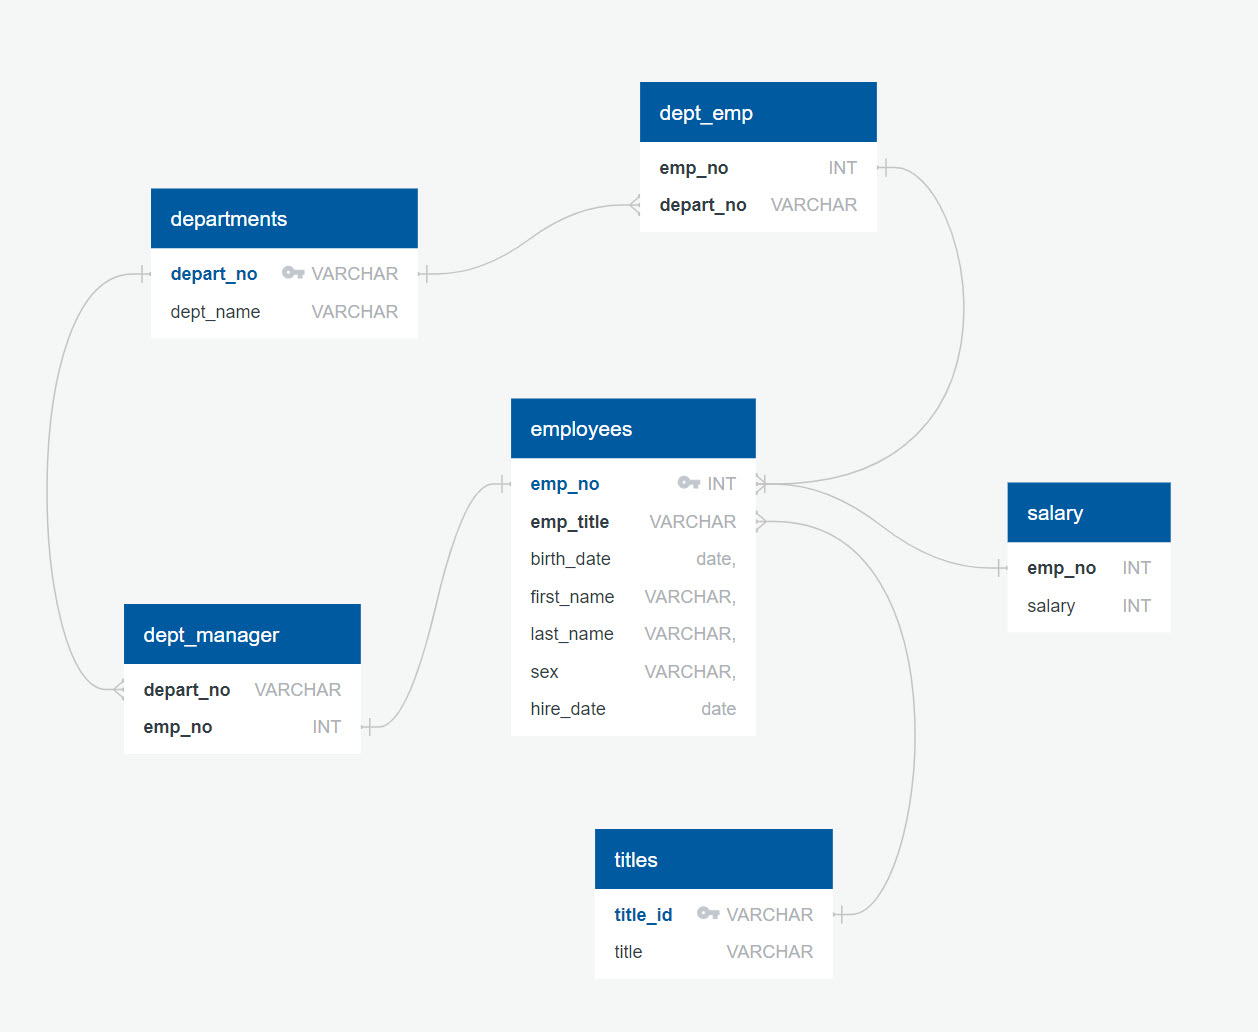
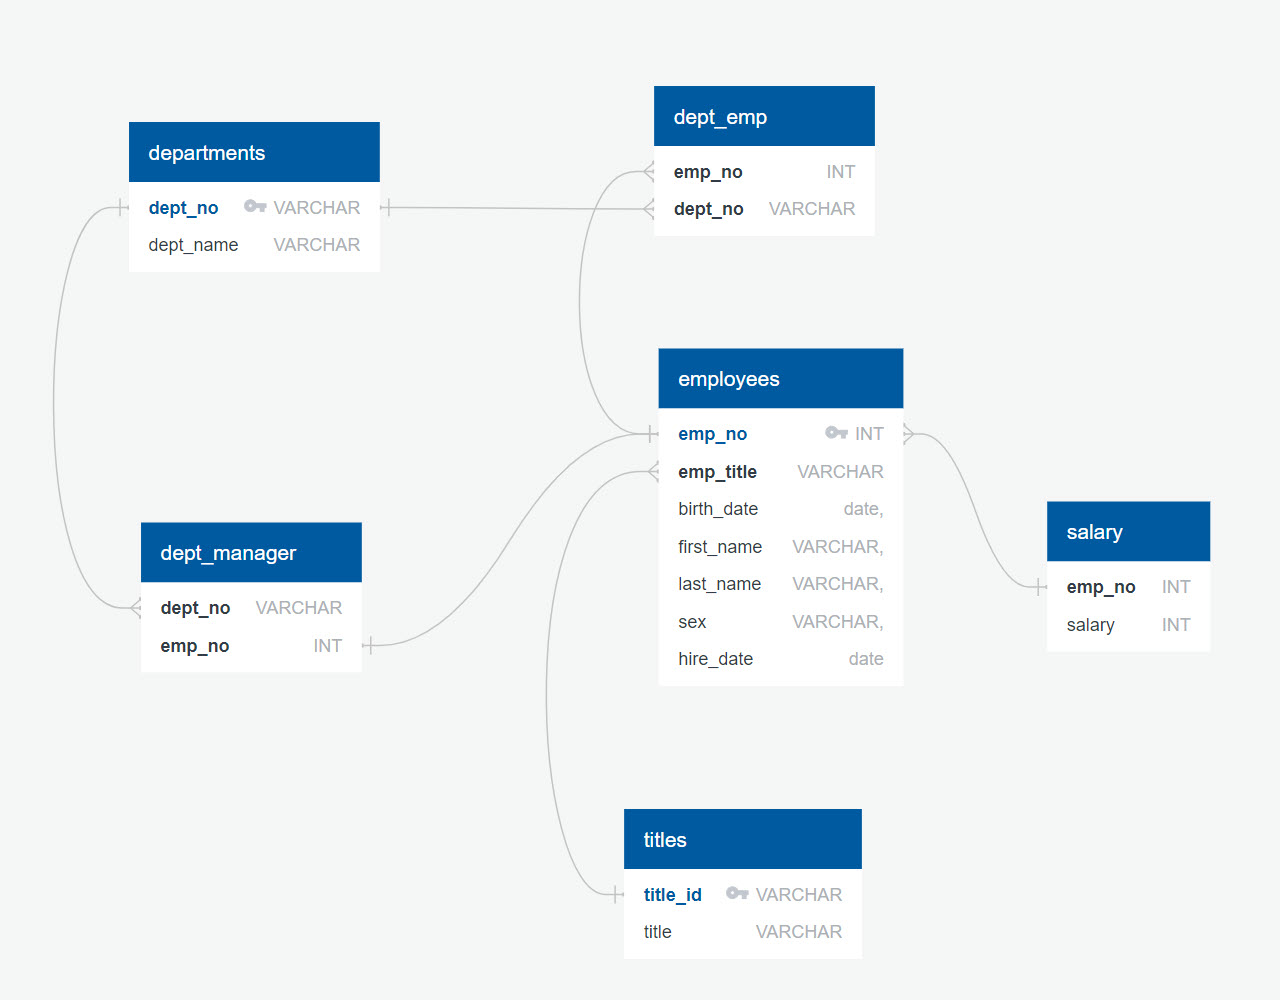
5th Commit

diff --git a/README.md b/README.md
@@ -1,1 +1,60 @@
 # Challenge9_sql-challenge
+
+The codes below are taken from lecture notes and ChatGPT.
+
+The following was done to accomplish the required tasks:
+1. Data Modelling
+   - After visual inspection and using Python to check the CSV files, dept_emp.csv file emp_no column has 31579 duplicates
+     while employees.csv file emp_no column has no duplicates.  Hence, employees.csv file is the key file with its emp_no column
+     being the Primary Key.
+   - There are 300,024 unique emp_no columns in employees.csv file
+   - https://www.quickdatabasediagrams.com/ was used to create the diagram as given in the attached image.
+   - 6 tables were created.  
+   - The main table is employees which has direct linkage to dept_emp, salary, titles and dept_manager tables
+   - employees has an indirect relationshp to departments either via dept_manager or dept_emp tables.
+
+
+2. Data Engineering
+   - The ERD above is used as the basis for the creation of the tables in PostgreSQL.
+   - The order of table creation is important as some table rely on other tables to use the column as Foreign Key
+   - The sequence of table creation is as follow:
+     1.  titles
+     2. departments
+     3. employees
+     4. dept_manager
+     5. dept_emp
+     6. salaries
+   - The same order in used to import the CSV File into each table while making sure to check the Header option is ON.
+
+
+3. Data Analysis
+   - The 8 questions were then answered using SQL query as given in attachment.
+   Q1. List the employee number, last name, first name, sex, and salary of each employee.
+       -> Total of 300,024 employees are listed
+
+   Q2. List the first name, last name, and hire date for the employees who were hired in 1986.
+       -> Total of 36,150 employees were hired in 1986.
+
+   Q3. List the manager of each department along with their department number, department name, 
+       employee number, last name, and first name.
+       -> 24 managers are listed working for the various departments
+
+   Q4. List the department number for each employee along with that employee’s employee number, 
+       last name, first name, and department name.
+       -> Total of 331,603 employees are listed.  Some employees work for more than one department.
+          This suggest that the dataset reflect where employees have worked in the past and currently working.
+
+   Q5. List the first name, last name, and sex of each employee whose first name is Hercules and 
+       whose last name begins with the letter B.
+       -> 20 employeees has Hercules as first_name and last_name starting with B
+
+   Q6. List each employee in the Sales department, including their employee number, last name, and first name.
+       -> 52,245 employees worked for Sales Department
+
+   Q7. List each employee in the Sales and Development departments, including their employee number, 
+       last name, first name, and department name.
+       -> There are 137,952 total employees working in Sales and Development Department.
+
+   Q8. List the frequency counts, in descending order, of all the employee last names 
+       (that is, how many employees share each last name).
+      -> There are 1638 total of different last_name with Baba being the most popular (226 times).
